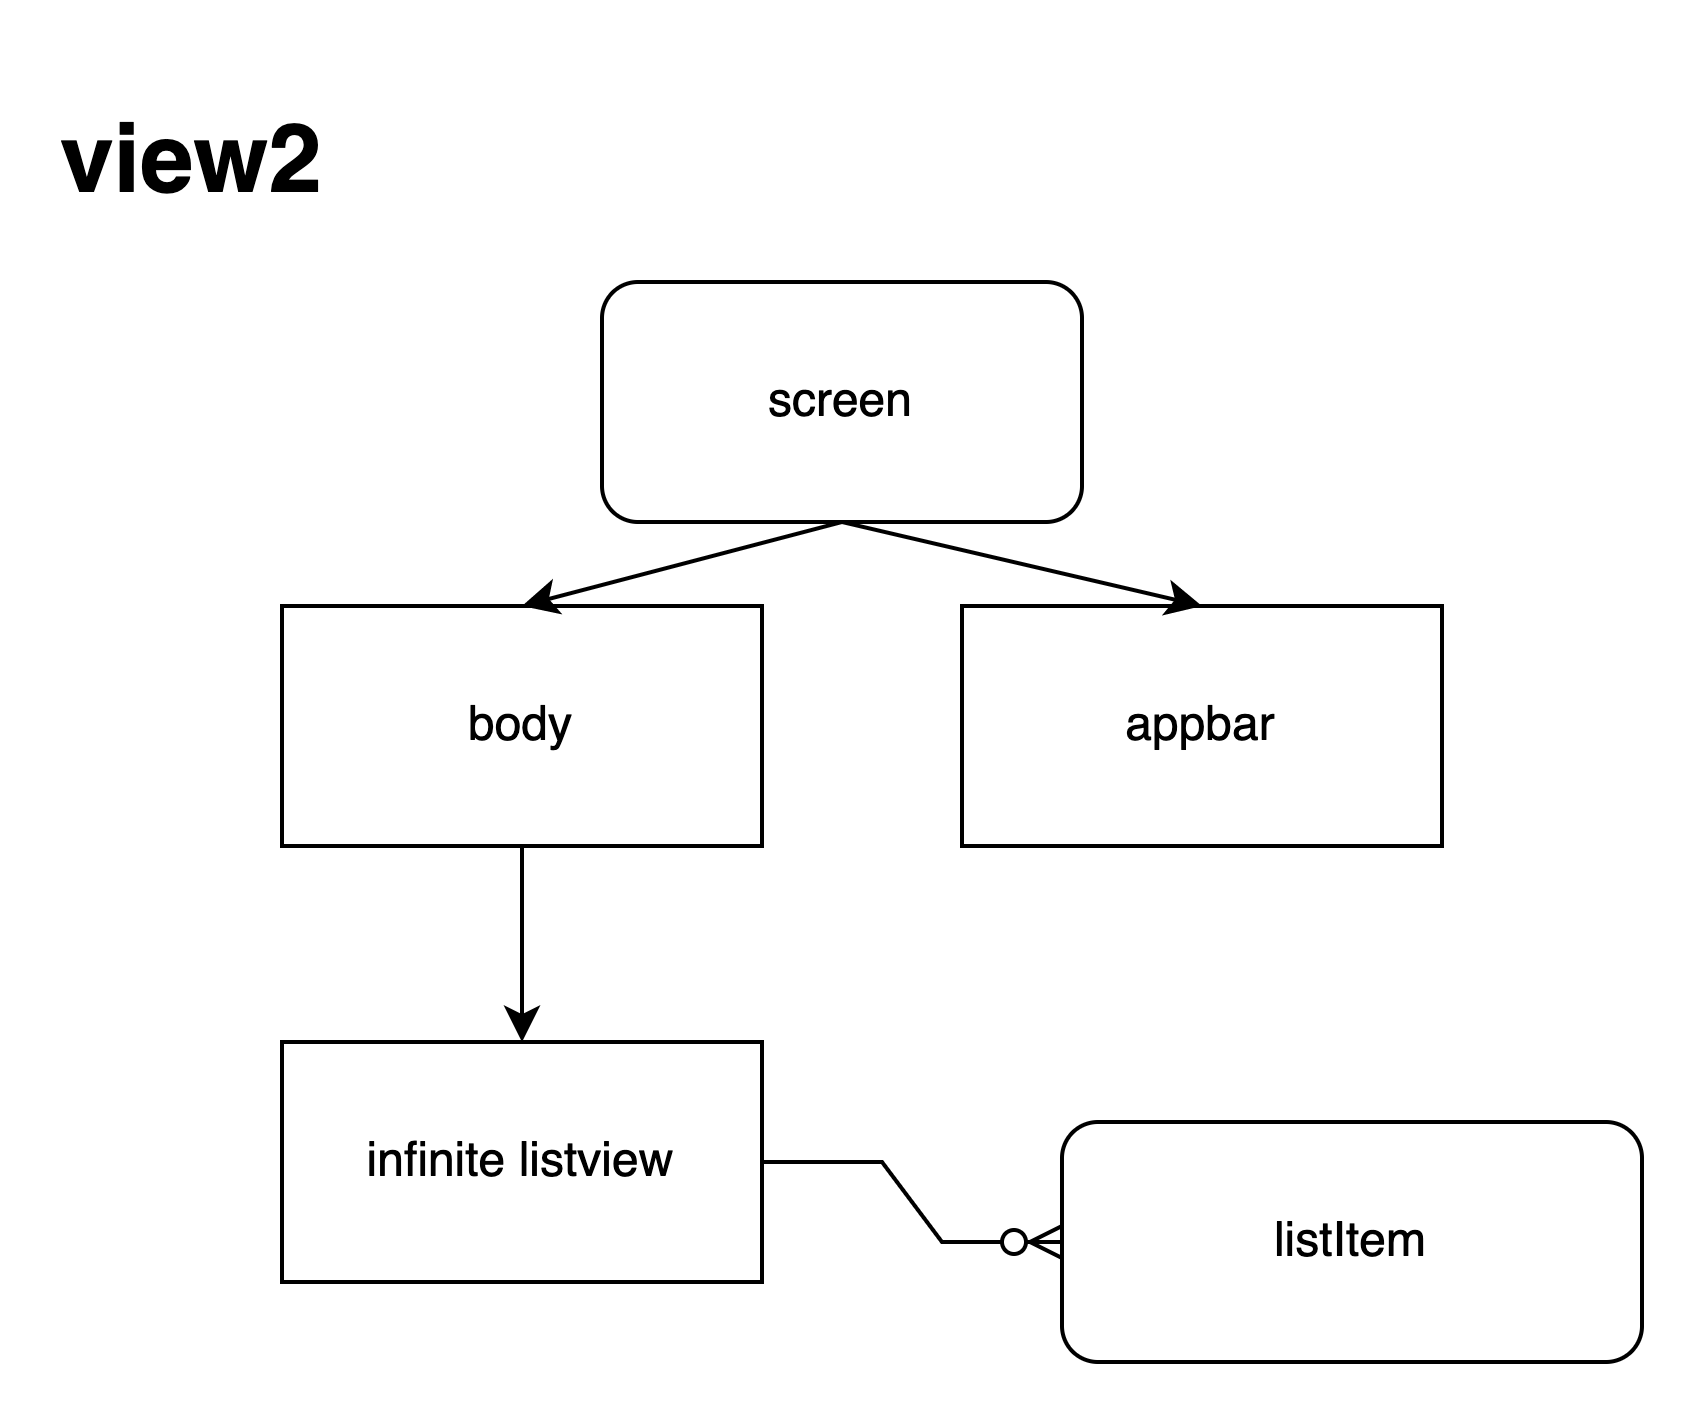
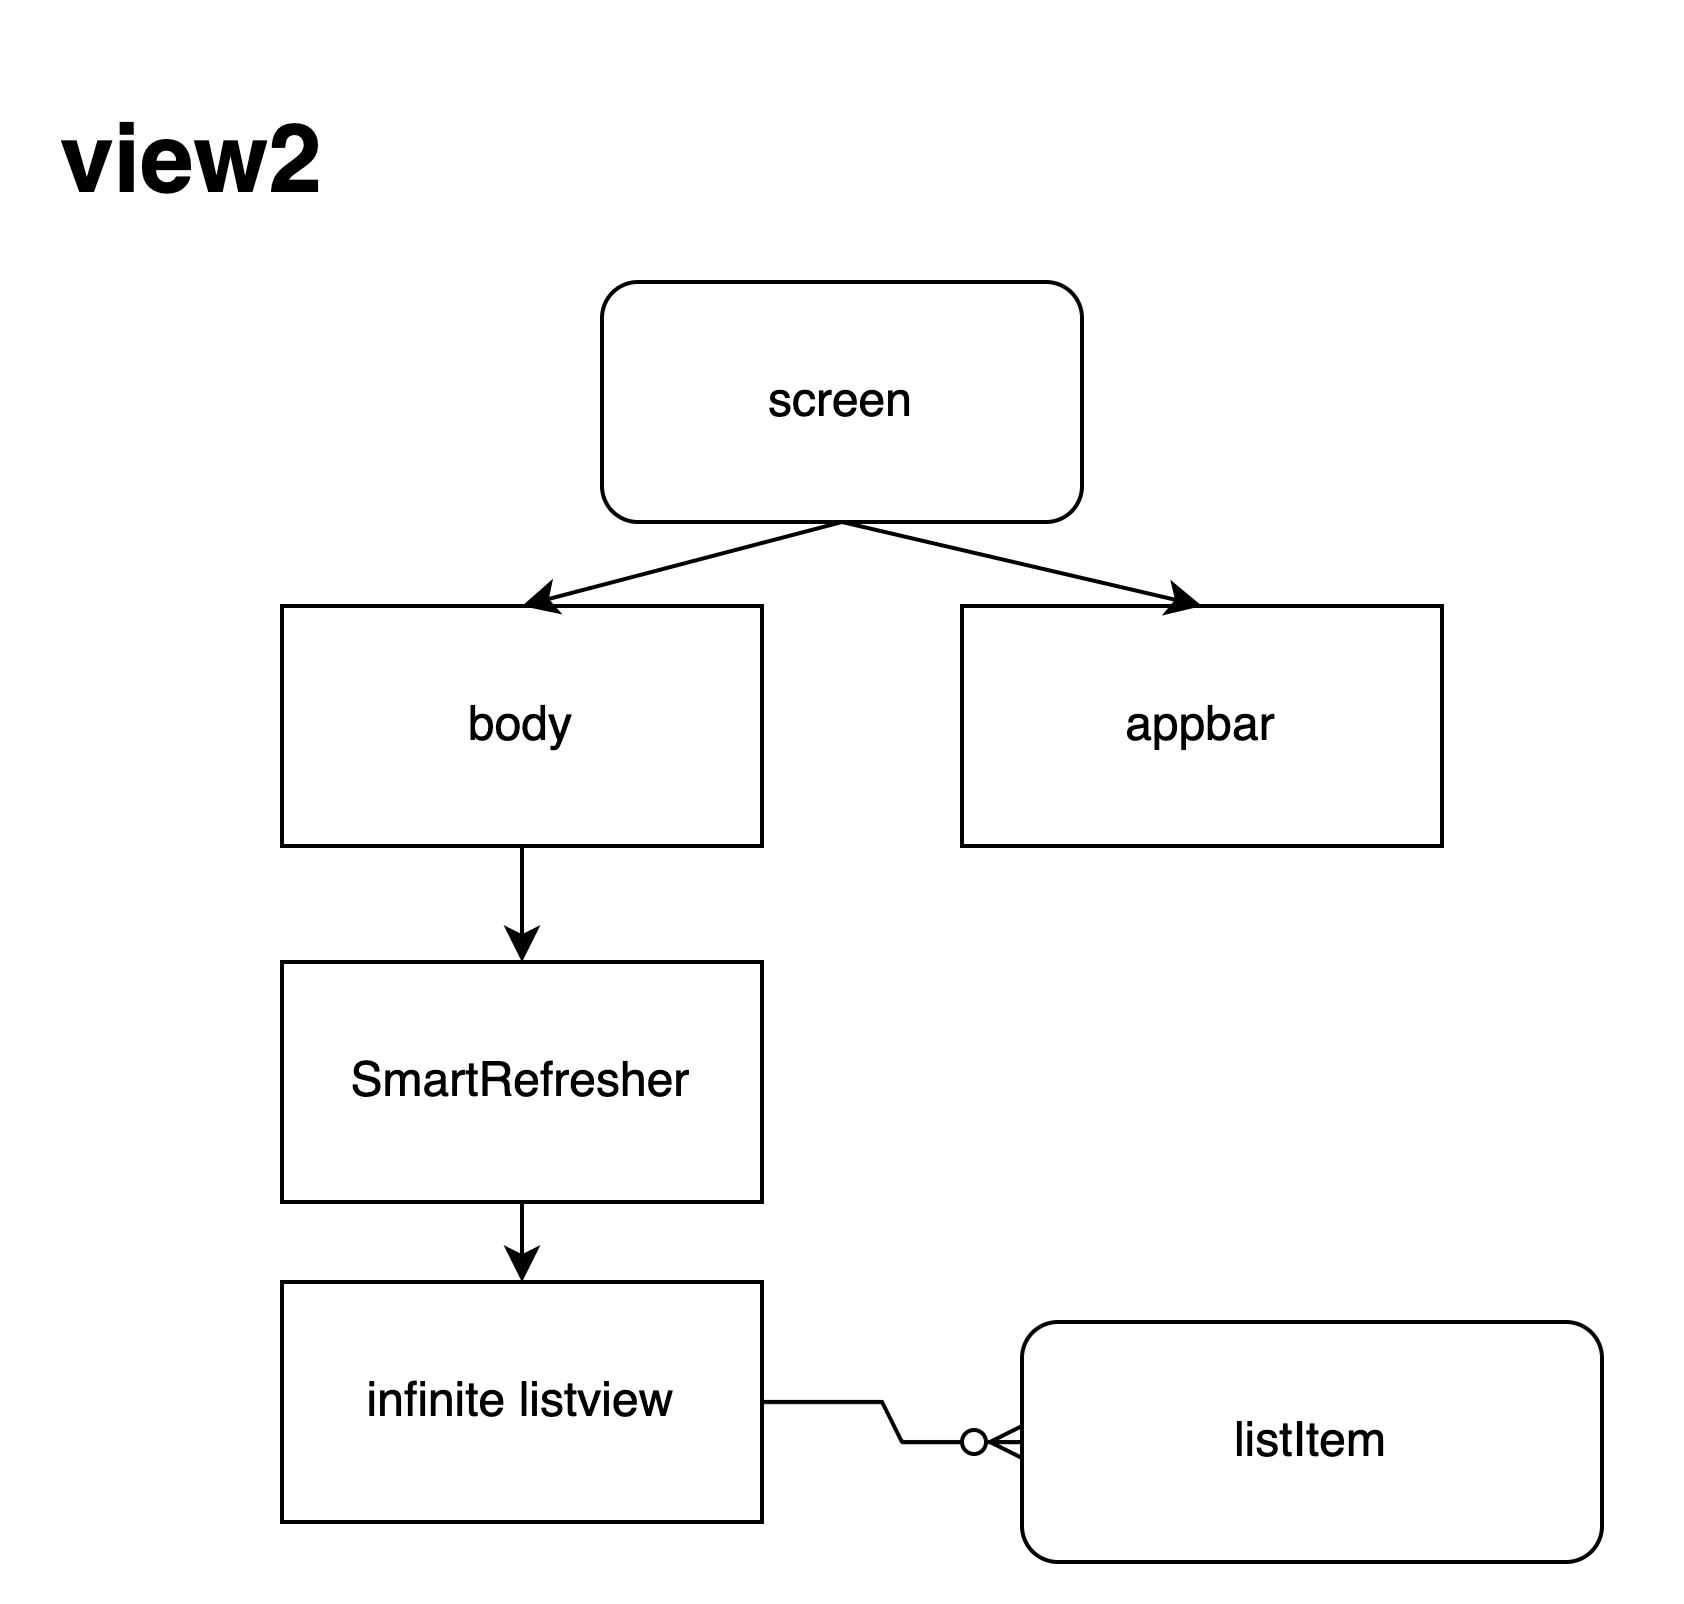
Docs: Readme 정리 및 과제문서화

diff --git a/README.md b/README.md
@@ -1,5 +1,9 @@
 # elice_assignment
-앨리스 미니프로젝트
+
+## Version
+<div>
+<img src="https://raw.githubusercontent.com/KOREAparksh/elice_assignment/main/assets/flutter_doctor.png" width="50%"></div>
+
 
 ## 일정 및 TodoList
 1. 12/12(월)
@@ -20,20 +24,127 @@
 - [x] ~~여러 Device 및 화면 적용되는지 확인~~ (통신 및 api 분석 시간지체로 인한 연장)
 
 3. 12/14(수) ~ 12/15(목)
-- [x] view 2 구현 (3h)
+- [x] view 2 구현 (4h)
 - [x] view 3 구현 (3h)
 - [x] 요구사항 재확인 및 적용 확인
 - [x] 여러 Device 및 화면 적용되는지 확인
-- [ ] 제출
+- [x] 제출
 
-## 구성도
+## 화면 간략 구성도
 <div>
 <img src="https://raw.githubusercontent.com/KOREAparksh/elice_assignment/main/assets/view1_diagram.png" width="50%"></div>
 
 <div>
 <img src="https://raw.githubusercontent.com/KOREAparksh/elice_assignment/main/assets/view2_diagram.png" width="50%"></div>
 
+## 폴더구조
+- `config`: 설정변수와 constant값 저장
+- `cubit`: cubit과 state 관리
+- `dto`: dto 클래스 관리
+- `repository`:  데이터를 가져오는 통신 저장 폴더
+- `screen`: 화면관리 폴더
+- `service`: custom_dio와 api 등 비즈니스로직 관리
+- `util`: 간단한 함수 관리
+- `widget`: 공통으로 쓰이거나 widget으로 분리된 파일 관리
+</br>
+- `assets`: 이미지파일 등 저장
+- `assets/fonts`: 폰트파일저장
+
+## bloc (cubit)
+추천과목, 무료과목 두 cubit을 생성.
+두 cubit의 추상클래스를 설정하여 하나의 위젯으로 많은 cubit을 보여줄 수 있게 구현.
+
+<div>
+<img src="https://raw.githubusercontent.com/KOREAparksh/elice_assignment/main/assets/cubit_diagram.png" width="50%"></div>
+
+## requirements
+
+- 상태관리
+  - `cubit`
+    전체 bloc 패턴을 학습하고 이를 과제에 적용하기엔 많은 시간이 소요될 것으로 예상.
+    과제사이즈 / 마감일 고려하였을 때 Cubit과 `flutter_bloc`패키지를 사용하기로 선택.
+
+- QR 라이브러리
+  - `mobile_scanner`
+  기본 zxing 관련 라이브러리들이 유지관리되지 않아, 다른 기반의 라이브러리 사용.
+  - https://pub.dev/packages/mobile_scanner
+  - 개발 중 에로사항이 있을 경우 기존 qr_code_scanner로 변경 에정.
+
+- 통신
+  - `retrofit`
+  과제 내 api는 한개이지만 확장성 / 유지보수성을 고려하여 retrofit 선택.
+
+- 기타
+  - 리스트 무한스크롤 및 새로고침
+  `pull_to_refresh`
+  - 웹뷰
+  `webview_flutter`
+  - 환경변수
+  `dotenv`
+
+## Git 컨벤션
+  - 프로젝트 설정 전
+  main branch에 직접 commit
+
+  - 프로젝트 설정 후 branch를 분리하여 코드작업 진행
+    - dev
+    - {주 개발 목적}-{브랜치이름}
+
+    문서작업의 경우 dev/main에 바로
+    </br>
+  - 개발 완료 후
+  main branch에 직접 commit
+
+  ## Git message 컨벤션
+  - "Tag: message"
+  - body 내용 미첨부
+  - Tag:
+    - Feat    - 새로 개발
+    - Fix     - 버그 수정
+    - Refactor - 코드 재작성 or 수정
+    - Add - asset files, 기타 코드 외 파일 추가
+    - Build - 라이브러리(dependency) 추가 및 삭제
+    - Docs - 문서작업
+
+## 개발방식
+- cubit 학습
+- ui 생성 및 dummy데이터 연결
+- cubit 생성 및 구현
+- ui, cubit 연결
+
+## 예시
+### 홈화면
+<div>
+<img src="https://raw.githubusercontent.com/KOREAparksh/elice_assignment/main/assets/홈화면.gif" width="50%"></div>
+
+### 전체보기화면
+<div>
+<img src="https://raw.githubusercontent.com/KOREAparksh/elice_assignment/main/assets/전체보기화면.gif" width="50%"></div>
+
+### 홈화면 아이템 터치
+<div>
+<img src="https://raw.githubusercontent.com/KOREAparksh/elice_assignment/main/assets/홈화면touchable.gif" width="50%"></div>
+
+### 전체보기화면 아이템 터치
+<div>
+<img src="https://raw.githubusercontent.com/KOREAparksh/elice_assignment/main/assets/전체보기화면touchable.gif" width="50%"></div>
+
+### QR 및 웹뷰
+<div>
+<img src="https://raw.githubusercontent.com/KOREAparksh/elice_assignment/main/assets/QR및웹뷰.gif" width="50%"></div>
 
 
-## 유의사항
+
+## 유의사항 / 고려사항
+- **QR 스캐너 아이폰 내 테스트 불가 (실 기기 부재)**
+- list가 0이거나 api 통신 result가 false인 등 여러 예외처리 구현
+- 빠른 학습 및 사용을 위해 cubit을 선택했으나, 과제 후 bloc 학습 필요하다고 생각
 - 여러 크기의 device 대응 확인
+
+## 아쉬운점
+- logo 등 png 파일의 해상도가 낮음
+=> 앞으로 미리 메일로 부탁드리거나 확인할 것.
+- cubit 학습 시간 지연
+=> state없이 cubit을 사용할 줄 안다고 착각, 둘째날 시간 지체
+- model-dto 구분 못함
+=> 과제 내 데이터가 잘 바뀌지 않아 구분 못한 것으로 판단.

diff --git a/documents/convention.md b/documents/convention.md
@@ -6,7 +6,7 @@ main branch에 직접 commit
 - 프로젝트 설정 후
 branch를 분리하여 코드작업 진행
   - dev
-  - ec-이슈번호
+  - {주 개발 목적}-{브랜치이름}
 
   문서작업의 경우 dev/main에 바로
 - 개발 완료 후

diff --git a/documents/libraries.md b/documents/libraries.md
@@ -19,3 +19,5 @@
   `pull_to_refresh`
   - 웹뷰
   `webview_flutter`
+  - 환경변수
+  `dotenv`
